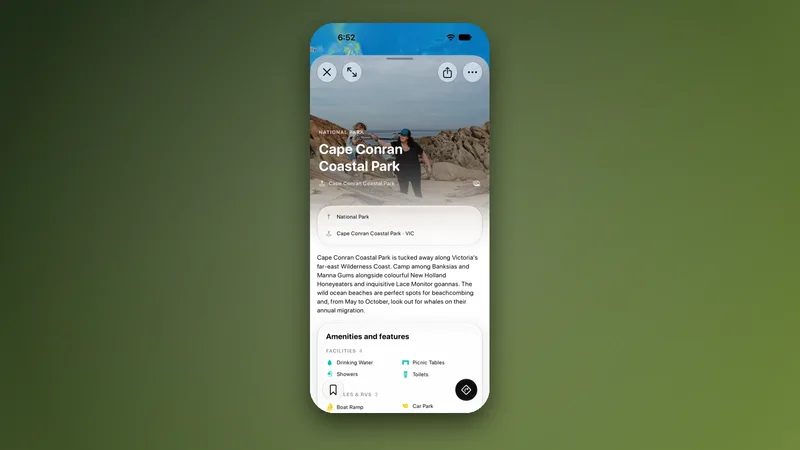
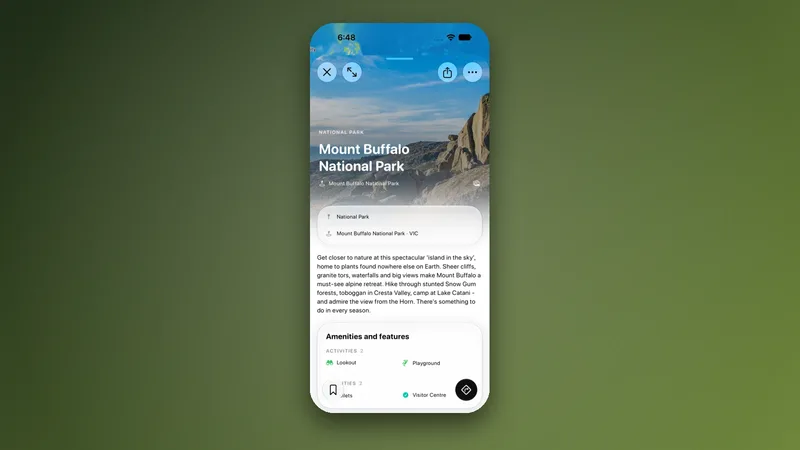
Apply content review fixes
Listicles run 2: guide-count test now 80 for the three scheduled guides; Splitwise settle-up without the US/India payment integrations; Apple Weather alerts worded fairly; ACT row in the emergency apps table; rest areas from road authorities and water filling points; AussieCamps catch 'iPhone only; in-app purchases'; dropped the US-sourced March 2026 Hipcamp claim and its source; fuel FAQ says which states run official apps; Hipcamp screen figure rebuilt from the Mount Buffalo page (no people).
Travel cost: the till-surcharge tip contradicted the body; now 'No surcharge on eftpos, Mastercard or Visa', re-translated in de, es, fr, it, nl, pt, da, sv, nb and zh-hant.
Image credits: link() keeps balanced parentheses and undoes Markdown escapes, so Commons URLs are no longer cut short; credits rebuilt.

diff --git a/lib/expanded-articles.ts b/lib/expanded-articles.ts
@@ -19,7 +19,7 @@ export const expandedArticles: Article[] = [
       section("Build the daily number from real components", ["Start with the bed or campsite, then add groceries, eating out, local transport and the average cost of paid experiences. Keeping these lines separate makes the estimate easier to update when one part changes.", "Vehicle travellers should calculate fuel from kilometres and consumption instead of hiding it inside a daily allowance. A fast lap costs more than a slower trip even when the nightly rate is identical."]),
       section("Why one Australian average misleads", ["Sydney, remote roadhouses, tropical dry-season towns and school-holiday beaches can all sit above an ordinary regional benchmark. Promotions and longer stays can move the opposite way.", "Use the table as a scenario tool, then replace each line with quotes for the dates and route you actually want."], ["Price the exact dates", "Separate vehicle hire", "Keep an emergency reserve"]),
       section("A budget that survives a changed plan", ["Hold at least one legal paid-night option and enough money for an extra tank of fuel. Free camping does not remove the need for showers, laundry, water, repairs or the occasional full-service reset.", "Review actual spending every few days. Correcting a small drift in week one is easier than cancelling the best part of the trip in week four."])
-    ,section("Where the money actually goes",["For most road trips the order is vehicle, fuel, food, campsites, activities. Campsites are usually a smaller line than people expect and fuel a much larger one, which is why choosing a slower route saves more than choosing cheaper sites.","That ordering tells you where to look when a budget drifts. Cutting a forty dollar campsite to nothing saves less than removing one five hundred kilometre detour, and it costs you a shower.","Activities are the other quiet line. A reef trip, a scenic flight over Uluru or a Kimberley cruise can each equal several days of ordinary travel, so decide in advance which two or three are worth it."],["Fuel usually beats accommodation","One detour costs more than many campsites","Choose big activities in advance"]),section("Costs that only appear once you arrive",["Vehicle excess reduction, one-way relocation fees, a local SIM, national park passes in several states and the bond held on your card are all real amounts rarely included in a daily budget. Together they add several hundred dollars to a fortnight.","Park passes in particular catch people out. Several states charge vehicle entry separately from camping, and a multi-park pass is usually far better value than daily entries once you visit more than two.","Interstate quarantine also has a small cost: produce disposed of at borders is money spent twice if you shop before crossing rather than after."],["Excess reduction is a real cost","Park entry is often separate","Shop after quarantine borders"]),section("Three honest daily budgets",["A frugal traveller cooking almost everything, mixing free camps and cheap national park sites and driving moderate distances can plan around eighty to a hundred and thirty dollars per person per day before long-distance transport.","A mixed approach with caravan parks every third night, some meals out and a few paid activities lands roughly between a hundred and sixty and two hundred and sixty. A comfort-oriented trip with cabins and regular restaurants moves well beyond that.","None of these include the vehicle itself, flights or a Tasmania crossing. Price those separately, because they are large fixed amounts that distort a daily average."],["Frugal is $80 to $130 per day","Mixed is $160 to $260","Price the vehicle separately"]),section("Making the money work while you are here",["Contactless card payment is accepted almost everywhere including small regional cafes, and since 1 October 2026 businesses can no longer add a surcharge to eftpos, Mastercard or Visa payments. Cash is still needed for honesty boxes, roadside stalls and some remote roadhouses.","Foreign transaction fees are the quiet drain. A travel card or a bank that does not charge them saves a meaningful amount over a month, and it removes the temptation to accept dynamic currency conversion at a terminal, which is always the worse rate.","Keep a small emergency fund entirely separate from the trip budget, because the point of it is that you never have to decide whether an unexpected cost is affordable."],["Card surcharges appear at the till","Keep cash for honesty boxes","Decline dynamic currency conversion"])],
+    ,section("Where the money actually goes",["For most road trips the order is vehicle, fuel, food, campsites, activities. Campsites are usually a smaller line than people expect and fuel a much larger one, which is why choosing a slower route saves more than choosing cheaper sites.","That ordering tells you where to look when a budget drifts. Cutting a forty dollar campsite to nothing saves less than removing one five hundred kilometre detour, and it costs you a shower.","Activities are the other quiet line. A reef trip, a scenic flight over Uluru or a Kimberley cruise can each equal several days of ordinary travel, so decide in advance which two or three are worth it."],["Fuel usually beats accommodation","One detour costs more than many campsites","Choose big activities in advance"]),section("Costs that only appear once you arrive",["Vehicle excess reduction, one-way relocation fees, a local SIM, national park passes in several states and the bond held on your card are all real amounts rarely included in a daily budget. Together they add several hundred dollars to a fortnight.","Park passes in particular catch people out. Several states charge vehicle entry separately from camping, and a multi-park pass is usually far better value than daily entries once you visit more than two.","Interstate quarantine also has a small cost: produce disposed of at borders is money spent twice if you shop before crossing rather than after."],["Excess reduction is a real cost","Park entry is often separate","Shop after quarantine borders"]),section("Three honest daily budgets",["A frugal traveller cooking almost everything, mixing free camps and cheap national park sites and driving moderate distances can plan around eighty to a hundred and thirty dollars per person per day before long-distance transport.","A mixed approach with caravan parks every third night, some meals out and a few paid activities lands roughly between a hundred and sixty and two hundred and sixty. A comfort-oriented trip with cabins and regular restaurants moves well beyond that.","None of these include the vehicle itself, flights or a Tasmania crossing. Price those separately, because they are large fixed amounts that distort a daily average."],["Frugal is $80 to $130 per day","Mixed is $160 to $260","Price the vehicle separately"]),section("Making the money work while you are here",["Contactless card payment is accepted almost everywhere including small regional cafes, and since 1 October 2026 businesses can no longer add a surcharge to eftpos, Mastercard or Visa payments. Cash is still needed for honesty boxes, roadside stalls and some remote roadhouses.","Foreign transaction fees are the quiet drain. A travel card or a bank that does not charge them saves a meaningful amount over a month, and it removes the temptation to accept dynamic currency conversion at a terminal, which is always the worse rate.","Keep a small emergency fund entirely separate from the trip budget, because the point of it is that you never have to decide whether an unexpected cost is affordable."],["No surcharge on eftpos, Mastercard or Visa","Keep cash for honesty boxes","Decline dynamic currency conversion"])],
     sources: [
       { label: "Nomads.com Australian cost-of-living comparison", url: "https://nomads.com/cost-of-living/" },
       { label: "Tourism Australia budget guide", url: "https://www.australia.com/en-sg/facts-and-planning/about-australia/australia-on-budget.html" },
@@ -564,7 +564,7 @@ export const expandedArticles: Article[] = [
         ["Windy.com", "Free; Premium in-app purchases from A$4.99", "Not stated; forecasts from global and regional models", "Wind, gusts and model comparison", "Not advertised", "4.8 (22,509)"],
         ["Elders Weather", "Free; Silver A$2.99 a year", "Weather warnings listed", "Frost risk and long-range rain", "Not advertised", "4.5 (67,905)"],
         ["AUS Rain Radar (Old BoM Radar)", "Free; remove ads A$4.99", "Not listed", "Quick radar view", "Not advertised", "4.6 (70,290)"],
-        ["Apple Weather", "Free, built into iPhone", "Not stated for Australia", "Already on your phone", "Not advertised", "4.8 (118,616)"],
+        ["Apple Weather", "Free, built into iPhone", "Severe weather alerts; Australian source not named", "Already on your phone", "Not advertised", "4.8 (118,616)"],
       ] }),
       section("1. BOM Weather: the official warnings, free", ["BOM Weather is the Bureau of Meteorology's own app, which it calls Australia's official weather app. It is free with no ads on iPhone and Android. It gives hourly forecasts for 72 hours and a 7-day forecast, a rain radar from 90 minutes in the past to 90 minutes ahead, and active warnings on the map.", "For camping, three features matter most. Warning notifications cover up to 3 locations and include fire weather, flood, heatwave, severe thunderstorm, tropical cyclone and coastal hazards. The fire danger rating for the district is shown in the app. And an offline mode keeps recently viewed data, so check your next camp before you lose signal.", "Lightning is not among the features the Bureau lists for the app, and WillyWeather goes further on tides and swell, which is where the next apps help."], ["Official warnings with notifications", "Fire danger rating in the app", "Free, no ads"]),
       section("2. WillyWeather: tides, swell and wind for coastal camps", ["WillyWeather builds its 7-day forecasts on Bureau data and adds tide times for every Australian beach and many rivers, swell height and direction, wind and an hourly UV forecast. It shows Bureau warnings for your location and lists campgrounds among more than 30,000 locations. It is rated 4.7 from 366,237 Australian ratings, on iPhone and Android.", "The free app shows ads. WillyWeather+ costs A$6 a month or A$48 a year and adds custom alerts, rain projections and offline forecasts, a paid feature that helps when you camp out of signal."], ["Tides and swell per beach", "Bureau warnings for your location", "Offline forecasts with WillyWeather+"]),
@@ -572,7 +572,7 @@ export const expandedArticles: Article[] = [
       section("4. Windy.com: wind and storms in detail", ["Windy shows more than 50 map layers from global and regional models, including ECMWF, GFS, ICON and the Australian ACCESS-C, with a lightning tracker and alerts when strikes come close. It is rated 4.8 from 22,509 Australian ratings. Premium in-app purchases are listed from A$4.99 and add a 15-day outlook and more frequent updates.", "It is the app for wind: gusts on an exposed headland, a rooftop tent or an awning. Its forecasts come from its own mix of models rather than from the Bureau, so use it alongside BOM Weather for official warnings rather than instead of it."], ["Wind and gust detail", "Model comparison", "Not the official warnings"]),
       section("5. Elders Weather: built for the bush", ["Elders Weather comes from the rural services company Elders and uses Bureau data and Weatherzone content, and its detail shows it: a 7-day forecast with frost risk and 9am and 3pm winds, a 48-hour forecast, radar, warnings and long-range rain maps. Silver membership, A$2.99 a year, adds 28-day and 12-month rainfall outlooks and lightning on the national radar. It is rated 4.5 from 67,905 Australian ratings.", "It suits inland and rural trips, where frost and rain on dirt roads matter more than tides."], ["Frost risk and rural detail", "Silver A$2.99 a year", "Bureau data and Weatherzone content"]),
       section("6. AUS Rain Radar (Old BoM Radar): just the radar", ["AUS Rain Radar is an independent app, not from the Bureau, that shows local and national rain radar in the style of the old BoM radar, with a 7-day forecast. Some of its data comes from the Bureau. It is free with ads, or A$4.99 once to remove them, and rated 4.6 from 70,290 Australian ratings.", "Its listing does not mention warnings, so treat it as a quick radar check."], ["Simple radar", "A$4.99 once to remove ads", "No warnings listed"]),
-      section("7. Apple Weather: already on your iPhone", ["Apple Weather is built into every iPhone and rated 4.8 from 118,616 Australian ratings. It gives hourly and 10-day forecasts and a precipitation map without installing anything.", "Apple's WeatherKit attribution page lists no Australian source for severe weather alerts, so do not rely on it for official warnings."], ["Built in", "No install needed", "Official warnings not stated"]),
+      section("7. Apple Weather: already on your iPhone", ["Apple Weather is built into every iPhone and rated 4.8 from 118,616 Australian ratings. It gives hourly and 10-day forecasts and a precipitation map without installing anything.", "Apple Weather can show severe weather alerts, but Apple does not name its Australian source, so use BOM Weather for the Bureau's official warnings."], ["Built in", "No install needed", "Use BOM for official warnings"]),
       { ...section("AussieCamps: the forecast for each campsite", ["AussieCamps is a camping app rather than a weather app, but weather is part of every place page: current conditions and a 7-day forecast from Apple Weather for each campground, rest area and park. Add campsites to a trip with arrival dates and it shows the forecast for each stop you will reach within the forecast range, so you can see which night of the week looks wet before you book.", "Forecasts need a connection, while place details such as facilities and fees stay readable out of signal. It has no warnings, radar or fire danger ratings, so keep BOM Weather alongside it. It is free to download, with in-app purchases, and runs on iPhone only."], ["7-day forecast on every place page", "Forecasts for trip arrival dates", "No warnings: keep BOM Weather"]), cta: true },
       section("Warnings, fire danger and the apps that carry them", ["Weather apps tell you what the sky will do; emergency apps tell you what the fire and emergency services are doing about it. The Australian Warning System uses three levels across bushfire, flood, storm and extreme heat: Advice, Watch and Act, and Emergency Warning.", "Fire danger ratings run from Moderate through High and Extreme to Catastrophic, with No rating on low-risk days. State and territory fire agencies set them, and those agencies are also responsible for a total fire ban, so check the agency for the state you are camping in, not only a weather app. Emergency+ is free, helps you call Triple Zero (000) and shows your location details to read to the call-taker."], ["Advice, Watch and Act, Emergency Warning", "Fire agencies set ratings and bans", "Emergency+ for Triple Zero calls"], { caption: "Official emergency warning apps and sites by state, checked 20 October 2026.", head: ["State or territory", "Official app or site", "What it shows"], rows: [
         ["New South Wales", "Hazards Near Me NSW (NSW Rural Fire Service)", "Bush fires, floods and tsunamis, watch zones, fire danger ratings"],
@@ -582,6 +582,7 @@ export const expandedArticles: Article[] = [
         ["Western Australia", "Emergency WA (DFES)", "Up to 10 watch zones, including travel destinations, warnings and total fire bans"],
         ["Tasmania", "TasALERT", "Incident map and watch zones"],
         ["Northern Territory", "SecureNT website", "Alerts from the Bureau, emergency services and Road Report NT"],
+        ["Australian Capital Territory", "ACT Emergency Services Agency website (esa.act.gov.au)", "Incident map and alerts, fire danger ratings, total fire ban information"],
       ] }),
       section("How we compared them", ["Each app's price, in-app purchases, rating and features were checked on the Australian App Store and on developer pages on 20 October 2026, and the warning and fire danger information on Bureau of Meteorology and state agency pages. We looked at what matters at a campsite: official warnings, radar, fire danger, tides and wind, and what still works when the signal drops.", "AussieCamps is our app, and it is listed after the weather apps because forecasts are not its main job. No weather app paid to be included or for its place in the list."], ["Checked on 20 October 2026", "Warnings from official sources", "Corrections welcome"]),
     ],
@@ -607,7 +608,7 @@ export const expandedArticles: Article[] = [
     related: ["australia-travel-cost-2026", "best-fuel-price-apps-australia", "australia-grocery-prices-2026"],
     sections: [
       section("Quick comparison", ["Pick by the bill you want to shrink. On a road trip, accommodation and fuel are usually the largest, so start there."], undefined, { caption: "Money-saving apps for travel in Australia. Prices, ratings and terms checked on the Australian App Store and developer sites on 20 October 2026.", head: ["App", "Saves on", "Price (AUD)", "The catch", "Rating (Australian ratings)"], rows: [
-        ["AussieCamps", "Where you sleep: free and low-cost camps, reported fees", "Free to download, with in-app purchases", "iPhone only", "No ratings yet"],
+        ["AussieCamps", "Where you sleep: free and low-cost camps, reported fees", "Free to download, with in-app purchases", "iPhone only; in-app purchases", "No ratings yet"],
         ["Petrol Spy", "Fuel, across most states", "Free; no ads A$2.89 a year", "Victorian prices come from users", "4.8 (184,903)"],
         ["State fuel apps", "Fuel, from official price data", "Free", "One state each", "Varies"],
         ["My 7-Eleven", "Fuel: locks a price for 7 days", "Free", "7-Eleven stores only", "4.8 (269,554)"],
@@ -620,7 +621,7 @@ export const expandedArticles: Article[] = [
         ["Wise", "Currency conversion and card fees", "Free account; card A$10", "Fees above free limits", "4.8 (85,892)"],
         ["Splitwise", "Sharing costs with travel mates", "Free; Pro in-app purchases", "You still settle up yourself", "4.4 (3,710)"],
       ] }),
-      { ...section("1. AussieCamps: cut what you pay for a bed", ["On a long trip, nights add up faster than anything else, and the cheapest bed is often a campground run by a park agency, or a rest area where the sign allows an overnight stop. AussieCamps lists 1,838 campgrounds and 5,552 rest areas from those agencies, and you can filter places by cost, including free and donation sites. Place pages show the prices the source reports, such as a fee per night, per person or per vehicle, so you know what a site costs before you drive in.", "It helps with the second bill too. A trip in AussieCamps shows the distance and drive time between stops, which is what a fuel budget is built on, and it marks 3,004 drinking water points and 1,186 toilets, so you are not buying bottled water or paying for a powered site just to use the facilities.", "AussieCamps is free to download, with in-app purchases, and runs only on iPhone. It has no fuel prices or traveller reviews; for those, use the apps below."], ["Filter by cost, including free sites", "Reported fees on place pages", "No fuel prices; iPhone only"]), cta: true },
+      { ...section("1. AussieCamps: cut what you pay for a bed", ["On a long trip, nights add up faster than anything else, and the cheapest bed is often a campground run by a park agency, or a rest area where the sign allows an overnight stop. AussieCamps lists 1,838 campgrounds from park agencies and 5,552 rest areas from road authorities, and you can filter places by cost, including free and donation sites. Place pages show the prices the source reports, such as a fee per night, per person or per vehicle, so you know what a site costs before you drive in.", "It helps with the second bill too. A trip in AussieCamps shows the distance and drive time between stops, which is what a fuel budget is built on, and it marks 3,004 water filling points and 1,186 toilets, so you are not buying bottled water or paying for a powered site just to use the facilities.", "AussieCamps is free to download, with in-app purchases, and runs only on iPhone. It has no fuel prices or traveller reviews; for those, use the apps below."], ["Filter by cost, including free sites", "Reported fees on place pages", "No fuel prices; iPhone only"]), cta: true },
       section("2. Petrol Spy: fuel prices across state lines", ["Fuel is the second big bill. Petrol Spy shows prices on a map for Queensland, South Australia, New South Wales, Western Australia, Tasmania and the Northern Territory, using official feeds such as FuelCheck and FuelWatch, with price-cycle graphs for the eight capitals and alerts for a good time to buy. It is free with ads, or A$2.89 a year without them, and rated 4.8 from 184,903 Australian ratings.", "In Victoria its prices are submitted by users, so the state's own Servo Saver is the better source there. Our comparison of fuel price apps covers each state in detail."], ["Most states in one free app", "Price-cycle graphs for capitals", "Victoria from user reports"]),
       section("3. State fuel price apps: the official numbers", ["Several states publish station prices themselves, free to use. FuelCheck covers New South Wales and the ACT, Servo Saver sits in the Service Victoria app, FuelWatch publishes Western Australia's prices for the next day from 2:30pm, and FuelCheck TAS and MyFuel NT cover Tasmania and the Territory.", "Each covers one state, so on an interstate trip a national app such as Petrol Spy saves switching."], ["Official price data", "Free", "One state each"]),
       section("4. My 7-Eleven: lock in a fuel price", ["The My 7-Eleven app's Fuel Price Lock finds the cheapest of up to five nearby 7-Eleven stores within 250 km and holds that price for 7 days, at any 7-Eleven selling that fuel. Under terms last updated in February 2024, the saving is capped at 25 cents a litre and covers up to 150 litres per fill, with one lock open at a time and up to two in 24 hours. The app is free and rated 4.8 from 269,554 Australian ratings.", "It compares 7-Eleven's own stores only, not other brands, so check a fuel app before you lock in."], ["Price held for 7 days", "Up to 150 litres per fill", "7-Eleven stores only"]),
@@ -631,7 +632,7 @@ export const expandedArticles: Article[] = [
       section("9. Too Good To Go: cheap food that would be thrown out", ["Too Good To Go sells surprise bags of unsold food from cafes, bakeries, restaurants and grocers, from A$6.99 a bag, collected at a set time. It started in Melbourne and then Sydney. It is free, with no in-app purchases, and rated 4.9 from 58,393 Australian ratings.", "The contents are a surprise and the pick-up windows are fixed, so it suits a few days in a city better than a day on the highway."], ["Bags from A$6.99", "Free to use", "Fixed pick-up times"]),
       section("10. EatClub: discounts on eating out", ["EatClub offers up to 50% off the bill at restaurants with spare tables, applied when you pay with its digital card, with no booking fees or vouchers. It covers venues in most mainland states and lists more than 10,000 restaurants across Australia, the UK and New Zealand. The app is free, with an optional subscription listed at A$11.90 a month, and rated 4.8 from 9,482 Australian ratings.", "Deals depend on which venues have spare tables at the time, so the choice changes through the day."], ["Up to 50% off the bill", "No booking fees", "Deals vary by time"]),
       section("11. Wise: fewer fees on your money", ["For overseas visitors, bank fees on every card payment and cash withdrawal add up over a long trip. Wise holds money in 40 currencies at the mid-market exchange rate and gives you a debit card. On its Australian pricing page, the card costs A$10, paying in the account's currency is free, and the first A$400 of cash withdrawals each month is free, with 2.69% charged above that.", "Fees and products depend on the country your account is opened in, so open it in your home country and check the fees there before you travel."], ["Mid-market exchange rate", "Card A$10 in Australia", "Check fees for your country"]),
-      section("12. Splitwise: share costs fairly", ["Travelling with friends, the money leaks out in small shared costs: fuel, groceries, camp fees. Splitwise records who paid what in any currency, works offline and settles up at the end. It is free, with Pro in-app purchases, and rated 4.4 from 3,710 Australian ratings.", "It records what people owe; you settle up in cash, by bank transfer or through one of its payment integrations."], ["Any currency", "Works offline", "Settling up is separate"]),
+      section("12. Splitwise: share costs fairly", ["Travelling with friends, the money leaks out in small shared costs: fuel, groceries, camp fees. Splitwise records who paid what in any currency, works offline and settles up at the end. It is free, with Pro in-app purchases, and rated 4.4 from 3,710 Australian ratings.", "It records what people owe; you settle up in cash or by bank transfer."], ["Any currency", "Works offline", "Settling up is separate"]),
       section("Also worth knowing", ["ShopBack and TopCashback pay cashback on online bookings such as hotels and flights, but the money arrives only after the retailer confirms the purchase and is paid to an Australian bank account or PayPal. Foody Bag sells surplus food bags at a third of their retail price, mainly in Perth.", "Half Price, a popular grocery specials app, had not been updated since March 2025 when we checked, so we have left it out of the main list."], ["Cashback needs an Australian bank or PayPal", "Foody Bag in Perth", "Half Price not updated since March 2025"]),
       section("How we picked them", ["We started from the bills that make up most of a trip budget, then checked each app's price, in-app purchases, rating and terms on the Australian App Store and the developer's own pages on 20 October 2026. Savings depend on how you travel, so each entry gives the catch as well as the saving.", "We make AussieCamps; it is first because a bed is the biggest bill most travellers can change. No other app in this guide paid to be listed."], ["Checked on 20 October 2026", "The catch for every app", "No paid placements"]),
     ],
@@ -675,7 +676,7 @@ export const expandedArticles: Article[] = [
       section("4. CAMPS Australia Wide: budget sites its team has checked", ["CAMPS lists more than 16,000 sites that its team says it has checked in person, with no paid listings, and it leans towards low-cost camping. It is free for 7 days and then A$14.99 a year, with maps and site information you can download before you lose signal. It is rated 4.4 from 3,476 Australian ratings.", "It is a subscription with no free tier after the trial, which suits regular campers more than a one-off weekend."], ["Sites checked in person", "A$14.99 a year after the trial", "No free tier"]),
       section("5. CamperMate: free, with partner bookings", ["CamperMate is free with no in-app purchases on the Australian App Store and lists free camps, holiday parks, dump stations and toilets across Australia and New Zealand, with bookings and deals from partner parks. It is rated 4.4 from 1,543 Australian ratings.", "Many of its listings and updates come from travellers, so read the reviews and the sign at the site."], ["Free, no in-app purchases", "Partner park bookings", "Traveller-contributed listings"]),
       section("6. G'day Parks: holiday parks to book", ["If Hipcamp's appeal is a guaranteed spot, a holiday park gives you that, usually with powered sites and showers. G'day Parks books its own network of more than 350 parks, with filters for pets, beach access and family facilities, and real-time availability. The app is free but has only 60 Australian ratings so far.", "It books its own network of parks only."], ["350+ holiday parks", "Real-time availability", "Its own network only"]),
-      section("When Hipcamp is still the better choice", ["For a night on a working farm, a vineyard or a private block of bush, especially a short drive from a city, Hipcamp is the app built for it, and its guest photos and reviews help you see what you are booking. Its March 2026 update also made rig type and 2WD or 4WD access clearer on listings.", "Airbnb and Stayz also list rural cabins and farm stays, and Camplify hires out campervans and motorhomes from their owners if you need the vehicle as well as the site. We left out Anycamp, which had not been updated since April 2024 when we checked."], ["Private land and glamping", "Guest photos and reviews", "Airbnb and Stayz for cabins"]),
+      section("When Hipcamp is still the better choice", ["For a night on a working farm, a vineyard or a private block of bush, especially a short drive from a city, Hipcamp is the app built for it, and its guest photos and reviews help you see what you are booking.", "Airbnb and Stayz also list rural cabins and farm stays, and Camplify hires out campervans and motorhomes from their owners if you need the vehicle as well as the site. We left out Anycamp, which had not been updated since April 2024 when we checked."], ["Private land and glamping", "Guest photos and reviews", "Airbnb and Stayz for cabins"]),
       section("How we compared them", ["Each app's price, in-app purchases, rating and features were checked on the Australian App Store and the developer's own pages on 20 October 2026, and booking rules on the park agencies' pages. We judged each one on what a Hipcamp user usually wants instead: public campgrounds, free sites or a reliable booking.", "We built AussieCamps and it opens the list for that reason; no other developer here paid to be included. If a price or feature has changed, tell us on the support page."], ["Checked on 20 October 2026", "Booking rules from park agencies", "No paid placements"]),
     ],
     sources: [
@@ -689,7 +690,6 @@ export const expandedArticles: Article[] = [
       { label: "WikiCamps Australia: price, coverage and bookings", url: "https://www.wikicamps.com.au/" },
       { label: "Camps Australia Wide: the CAMPS app", url: "https://www.campsaustraliawide.com/app/" },
       { label: "CamperMate: coverage and features", url: "https://campermate.com/" },
-      { label: "OVR: Hipcamp adds rig type and access filters (March 2026)", url: "https://www.ovrmag.com/news/hipcamp-adds-car-camping-and-rooftop-tent-filters/946.article" },
     ]
   }),
 ];

diff --git a/lib/article-faqs.ts b/lib/article-faqs.ts
@@ -230,7 +230,7 @@ export const articleFaqs: Record<string, readonly (readonly [string, string])[]>
   ],
   "best-money-saving-travel-apps-australia": [
     ["What apps save money when travelling in Australia?", "Start with the biggest bills. AussieCamps finds free and low-cost campgrounds and shows their reported fees, Petrol Spy and the state fuel apps find cheaper fuel, WiseList compares Coles, Woolworths and ALDI, and Too Good To Go and EatClub cut food costs in the cities."],
-    ["How can I save on fuel on an Australian road trip?", "Check a fuel price app before you fill up: Petrol Spy covers most states, and New South Wales, Victoria, Western Australia, Tasmania and the Northern Territory publish official prices. My 7-Eleven can hold a 7-Eleven price for 7 days, and Flybuys offers 4 cents off a litre at Coles Express and Reddy Express."],
+    ["How can I save on fuel on an Australian road trip?", "Check a fuel price app before you fill up: Petrol Spy covers most states, and New South Wales, Victoria, Western Australia, Tasmania and the Northern Territory run their own official fuel price apps. My 7-Eleven can hold a 7-Eleven price for 7 days, and Flybuys offers 4 cents off a litre at Coles Express and Reddy Express."],
     ["Which app compares supermarket prices in Australia?", "WiseList compares Coles, Woolworths and ALDI prices as you build a shopping list, free with ads. Its paid WiseList+ tier adds splitting a list by store and barcode scan and compare."],
     ["Is there an app for cheap food in Australian cities?", "Too Good To Go sells surprise bags of unsold food from cafes and bakeries from A$6.99, and EatClub offers up to 50% off the bill at restaurants with spare tables."],
   ],

diff --git a/lib/screen-figures.ts b/lib/screen-figures.ts
@@ -24,7 +24,7 @@ export const screenFigures: readonly ScreenFigure[] = [
   { slug: "best-apps-working-holiday-australia", section: 1, src: "/images/screens/best-apps-working-holiday-australia.webp", alt: "AussieCamps on iPhone: the RAC Cable Beach Holiday Park page in Broome, with its Book now button" },
   { slug: "best-weather-apps-camping-australia", section: 8, src: "/images/screens/best-weather-apps-camping-australia.webp", alt: "AussieCamps on iPhone: the Blue Mountains National Park page with photos and a 7-day forecast from Apple Weather" },
   { slug: "best-money-saving-travel-apps-australia", section: 1, src: "/images/screens/best-money-saving-travel-apps-australia.webp", alt: "AussieCamps on iPhone: the Coffin Bay National Park page with its features and reported prices per night and per vehicle" },
-  { slug: "hipcamp-alternatives", section: 2, src: "/images/screens/hipcamp-alternatives.webp", alt: "AussieCamps on iPhone: the Cape Conran Coastal Park page in Victoria with its description and amenities" },
+  { slug: "hipcamp-alternatives", section: 2, src: "/images/screens/hipcamp-alternatives.webp", alt: "AussieCamps on iPhone: the Mount Buffalo National Park page in Victoria with its description and amenities" },
   { slug: "best-camping-app-australia", section: 1, src: "/images/screens/best-camping-app-australia.webp", alt: "AussieCamps on iPhone: the Karijini National Park page with its amenities and features" },
 ];
 

diff --git a/docs/growth/screen-figures.md b/docs/growth/screen-figures.md
@@ -21,7 +21,7 @@ followed by that section's heading. Source screenshots are in `~/Marketing/Campi
 | best-apps-working-holiday-australia | 1 (1. AussieCamps: where to stay between jobs) | aussiecamps_place-detail_rac-cable-beach-hp_top.png | AussieCamps on iPhone: the RAC Cable Beach Holiday Park page in Broome, with its Book now button |
 | best-weather-apps-camping-australia | 8 (AussieCamps: the forecast for each campsite) | aussiecamps_place-detail_blue-mountains-np_middle.png | AussieCamps on iPhone: the Blue Mountains National Park page with photos and a 7-day forecast from Apple Weather |
 | best-money-saving-travel-apps-australia | 1 (1. AussieCamps: cut what you pay for a bed) | aussiecamps_place-detail_coffin-bay-np_middle.png | AussieCamps on iPhone: the Coffin Bay National Park page with its features and reported prices per night and per vehicle |
-| hipcamp-alternatives | 2 (1. AussieCamps: public campgrounds and farm stays in one app) | aussiecamps_place-detail_cape-conran_top.png | AussieCamps on iPhone: the Cape Conran Coastal Park page in Victoria with its description and amenities |
+| hipcamp-alternatives | 2 (1. AussieCamps: public campgrounds and farm stays in one app) | aussiecamps_place-detail_mount-buffalo-np_top.png | AussieCamps on iPhone: the Mount Buffalo National Park page in Victoria with its description and amenities |
 | best-camping-app-australia | 1 (1. AussieCamps: best for official data and trip planning on iPhone) | aussiecamps_place-detail_karijini-np_top.png | AussieCamps on iPhone: the Karijini National Park page with its amenities and features |
 
 `best-fuel-price-apps-australia` is the one exception to "the section whose heading names AussieCamps":
